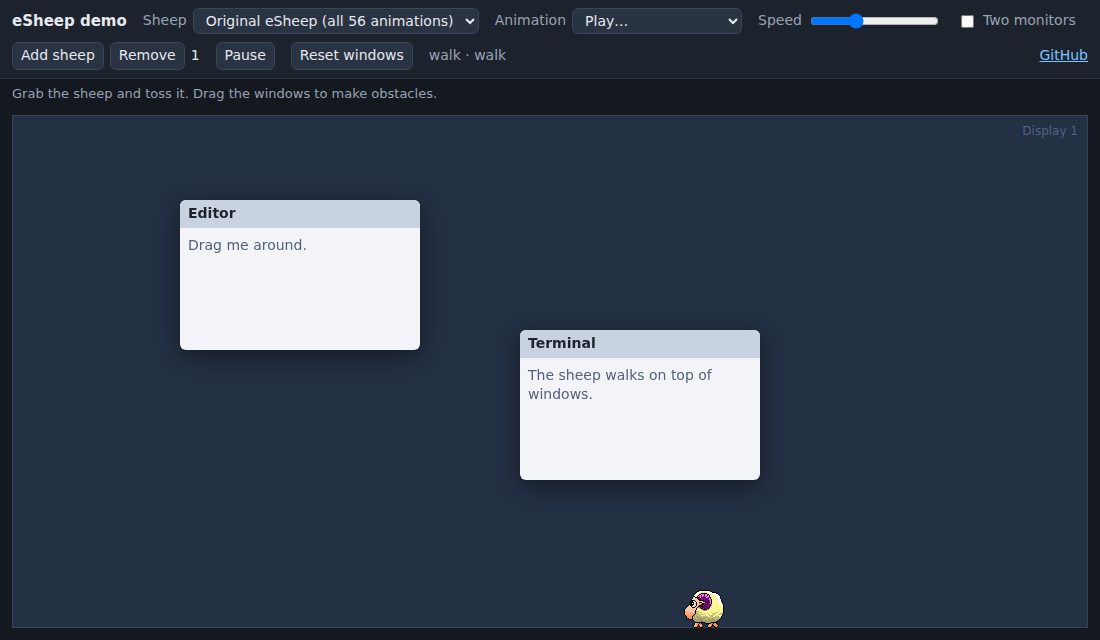
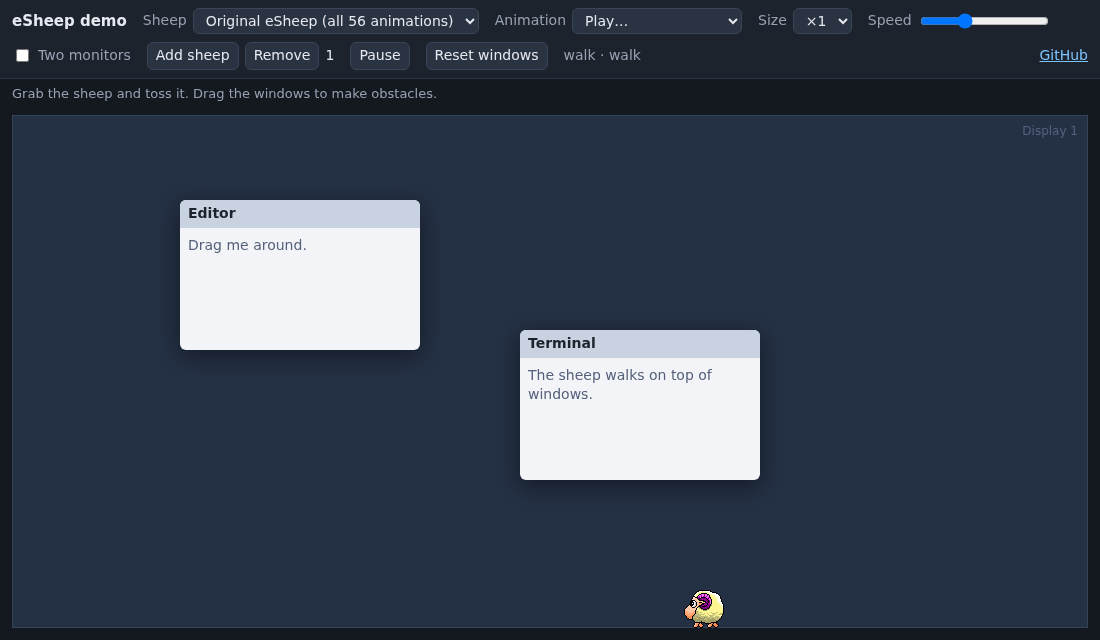
feat: high-resolution rendering and a Size setting

diff --git a/src/web/stage.ts b/src/web/stage.ts
@@ -28,7 +28,9 @@ export const WINDOW = 128;
 /** Transparent margin around a classic sprite, so tossed pixels are never clipped at the edge. */
 export const PAD = 6;
 /** Classic packs: on-screen px per source px. */
-export const SCALE = 1; // native pixels: the classic art is 40 px and looks wrong blown up
+/** Default sprite size multiplier: native pixels (the classic art is 40 px). */
+export const SCALE = 1;
+export const MAX_SCALE = 4;
 
 export interface StageOptions {
   readonly pack: Pack;
@@ -42,6 +44,10 @@ export interface StageOptions {
   /** Move the host window / element so the canvas origin is at (x, y) in screen px. */
   readonly place: (x: number, y: number) => void;
   readonly onSound?: () => void;
+  /** Classic sprites are drawn this many times their native size (whole numbers look crispest). */
+  readonly scale?: number;
+  /** Device pixels per CSS pixel: the canvas is rendered at this resolution so it stays crisp. */
+  readonly pixelRatio?: number;
   /** Sprite rectangles of the other sheep, so this one can leap over them. */
   readonly getOthers?: () => readonly Rect[];
 }
@@ -55,6 +61,8 @@ export interface Snapshot {
 }
 
 export interface Stage {
+  /** The display's device pixel ratio changed (e.g. the window moved to another monitor). */
+  setPixelRatio(ratio: number): void;
   /** Side of the square window the sheep draws into (sprite plus a small margin). */
   windowSize(): number;
   /** Advance by `dtMs` of (unscaled) wall time, redraw and reposition. */
@@ -96,7 +104,8 @@ const classicBrain = (o: StageOptions, pack: ClassicPack): Brain => {
   const cp: CompiledPack = compilePack(pack);
   const tw = o.sheetSize.width / pack.tilesX;
   const th = o.sheetSize.height / pack.tilesY;
-  const cfg: Config = { size: Math.round(tw * SCALE), scale: SCALE };
+  const scale = Math.min(MAX_SCALE, Math.max(1, o.scale ?? SCALE));
+  const cfg: Config = { size: Math.round(tw * scale), scale };
   const pad = PAD;
   const win = cfg.size + 2 * PAD;
   const first = spawn(cp, o.getWorld(), cfg, o.seed);
@@ -202,14 +211,22 @@ export const createStage = (o: StageOptions): Stage => {
     const p = brain.pos();
     o.place(Math.round(p.x - brain.pad), Math.round(p.y - brain.pad));
   };
-  // Size the canvas to the sheep (resizing resets the context, so smoothing is switched off after).
+  // The canvas is rendered at device resolution (CSS size stays the window size) so pixel art is
+  // crisp on high-DPI displays; everything is drawn in CSS px under a scale transform.
   const canvas = o.ctx.canvas as HTMLCanvasElement | undefined;
-  if (canvas) {
-    canvas.width = brain.win;
-    canvas.height = brain.win;
+  let ratio = Math.max(1, o.pixelRatio ?? 1);
+  const sizeCanvas = (): void => {
+    if (!canvas) return;
+    canvas.width = Math.round(brain.win * ratio); // resizing resets the context, hence the redraw
+    canvas.height = Math.round(brain.win * ratio);
     o.ctx.imageSmoothingEnabled = false;
-  }
-  brain.draw(o.ctx);
+  };
+  const paint = (): void => {
+    o.ctx.setTransform?.(ratio, 0, 0, ratio, 0, 0);
+    brain.draw(o.ctx);
+  };
+  sizeCanvas();
+  paint();
   place();
 
   return {
@@ -217,10 +234,18 @@ export const createStage = (o: StageOptions): Stage => {
     tick: (dtMs) => {
       if (paused) return;
       if (brain.step(dtMs, o.getWorld(), o.getPrefs())) o.onSound?.();
-      brain.draw(o.ctx);
+      paint();
       place();
     },
-    hit: (x, y) => o.ctx.getImageData(Math.floor(x), Math.floor(y), 1, 1).data[3] > 16,
+    hit: (x, y) =>
+      o.ctx.getImageData(Math.floor(x * ratio), Math.floor(y * ratio), 1, 1).data[3] > 16,
+    setPixelRatio: (r) => {
+      const next = Math.max(1, r);
+      if (next === ratio) return;
+      ratio = next;
+      sizeCanvas();
+      paint();
+    },
     down: (pointer, t) => {
       if (paused) return;
       drag = startDrag(brain.pos(), pointer, t);
@@ -231,7 +256,7 @@ export const createStage = (o: StageOptions): Stage => {
       const m = moveDrag(drag, pointer, t);
       drag = m.drag;
       brain.moveHeld(m.sprite);
-      brain.draw(o.ctx);
+      paint();
       place();
     },
     up: (t) => {
@@ -247,7 +272,7 @@ export const createStage = (o: StageOptions): Stage => {
     play: (name) => {
       if (!brain.play || !brain.animations?.().includes(name)) return false;
       brain.play(name, o.getWorld());
-      brain.draw(o.ctx);
+      paint();
       place();
       return true;
     },

diff --git a/src/web/stage.test.ts b/src/web/stage.test.ts
@@ -96,6 +96,43 @@ describe('classic stage', () => {
     expect(make(bounce).stage.windowSize()).toBe(128);
   });
 
+  it('draws classic sprites at the requested whole-number scale (clamped to 1-4)', () => {
+    const base = make(woolly).stage.rect()?.width ?? 0;
+    const at = (scale: number) => make(woolly, { scale }).stage;
+    expect(at(2).rect()?.width).toBe(base * 2);
+    expect(at(2).windowSize()).toBe(base * 2 + 2 * PAD);
+    expect(at(9).rect()?.width).toBe(base * 4);
+    expect(at(0).rect()?.width).toBe(base);
+  });
+
+  it('renders the canvas at device resolution and maps hit-tests to it', () => {
+    const canvas = { width: 0, height: 0 } as HTMLCanvasElement;
+    const ctx = Object.assign(fakeCtx(), { canvas }) as unknown as CanvasRenderingContext2D;
+    const { stage } = make(woolly, { ctx, pixelRatio: 2 });
+    const css = stage.windowSize();
+    expect(canvas).toMatchObject({ width: css * 2, height: css * 2 });
+    expect(ctx.setTransform).toHaveBeenLastCalledWith(2, 0, 0, 2, 0, 0);
+    stage.hit(10.5, 7);
+    expect(ctx.getImageData).toHaveBeenLastCalledWith(21, 14, 1, 1);
+  });
+
+  it('re-renders at the new resolution when the pixel ratio changes, and ignores no-ops', () => {
+    const canvas = { width: 0, height: 0 } as HTMLCanvasElement;
+    const ctx = Object.assign(fakeCtx(), { canvas }) as unknown as CanvasRenderingContext2D;
+    const { stage } = make(woolly, { ctx });
+    const css = stage.windowSize();
+    stage.setPixelRatio(3);
+    expect(canvas.width).toBe(css * 3);
+    expect(ctx.setTransform).toHaveBeenLastCalledWith(3, 0, 0, 3, 0, 0);
+    const calls = (ctx.setTransform as unknown as { mock: { calls: unknown[] } }).mock.calls.length;
+    stage.setPixelRatio(3);
+    expect((ctx.setTransform as unknown as { mock: { calls: unknown[] } }).mock.calls.length).toBe(
+      calls,
+    );
+    stage.setPixelRatio(0.5); // never below 1
+    expect(canvas.width).toBe(css);
+  });
+
   it('has no rectangle for the bounce sheep', () => {
     expect(make(bounce).stage.rect()).toBeNull();
   });

diff --git a/tests/e2e/demo.spec.ts b/tests/e2e/demo.spec.ts
@@ -286,3 +286,35 @@ test('grabbing one sheep leaves the others alone', async ({ page }) => {
   expect(Math.abs(other.x - b.x)).toBeLessThan(400);
   await page.mouse.up();
 });
+
+test('the Size picker scales the sheep and keeps the flock', async ({ page }) => {
+  await open(page);
+  await page.evaluate(() => window.__demo.add());
+  const canvas = page.locator('#sheep');
+  await expect(canvas).toHaveCSS('width', '52px'); // 40px sprite + 6px margin each side
+  await page.locator('#scale').selectOption('3');
+  await expect.poll(() => page.evaluate(() => window.__demo.count())).toBe(2);
+  await expect(canvas).toHaveCSS('width', '132px'); // 40 x 3 + 12
+  await page.evaluate(() => window.__demo.step(6000));
+  const s = await snap(page);
+  expect(s.y + 120).toBeLessThanOrEqual((await monitor(page)).bottom + 1); // 120px sprite fits on the floor
+});
+
+test('the canvas is rendered at device resolution so pixel art stays crisp', async ({
+  browser,
+}) => {
+  const context = await browser.newContext({ deviceScaleFactor: 2 });
+  const page = await context.newPage();
+  await open(page);
+  const dims = await page.locator('#sheep').evaluate((c: HTMLCanvasElement) => ({
+    backing: c.width,
+    css: c.getBoundingClientRect().width,
+  }));
+  expect(dims).toEqual({ backing: 104, css: 52 }); // 52 CSS px at 2 device px each
+  // Still hit-testable at the right place: clicking the sheep's centre picks it up.
+  await page.evaluate(() => window.__demo.step(8000));
+  const s = await snap(page);
+  await page.mouse.move(s.x + 20, s.y + 22);
+  await expect(page.locator('#sheep')).toHaveCSS('pointer-events', 'auto');
+  await context.close();
+});

diff --git a/tests/e2e/app.spec.ts b/tests/e2e/app.spec.ts
@@ -176,11 +176,33 @@ test.describe('settings', () => {
     });
 
     page.evaluate(() =>
-      window.electronAPI.savePrefs({ speed: 99, sound: false, pack: '../../etc', count: 99 }),
+      window.electronAPI.savePrefs({
+        speed: 99,
+        sound: false,
+        pack: '../../etc',
+        count: 99,
+        scale: 99,
+      }),
     );
     await expect
       .poll(() => page.evaluate(() => window.electronAPI.loadPrefs()))
-      .toMatchObject({ speed: 2, sound: false, pack: 'builtin', count: 12 });
+      .toMatchObject({ speed: 2, sound: false, pack: 'builtin', count: 12, scale: 4 });
+  });
+
+  test('the Size setting scales the sprite and its window, and persists', async () => {
+    const page = await openSettings();
+    await page.locator('#pack').selectOption('woolly');
+    await page.locator('#scale').selectOption('2');
+    await page.getByRole('button', { name: 'Save' }).click();
+    await expect(page.locator('#status')).toHaveText('Saved');
+    expect(await page.evaluate(() => window.electronAPI.loadPrefs())).toMatchObject({ scale: 2 });
+    // 40px sprite x2, plus the 6px margin on every side.
+    await expect.poll(async () => (await sheepBounds()).width, { timeout: 15_000 }).toBe(92);
+    const bottom = await page.evaluate(async () => {
+      const [primary] = await window.electronAPI.getWorkAreas();
+      return primary.y + primary.height;
+    });
+    await expect.poll(async () => (await sheepBounds()).y + 86, { timeout: 15_000 }).toBe(bottom);
   });
 
   test('switching to the woolly pack reloads the sheep, which falls in and lands on the taskbar line', async () => {

diff --git a/src/main/main.ts b/src/main/main.ts
@@ -32,7 +32,8 @@ const getVisibleWindows = createWindowSource(process.platform, process.pid, load
 );
 
 const MAX_SHEEP = 12;
-const DEFAULT_PREFS: Prefs = { speed: 1, sound: false, pack: BUILTIN, count: 1 };
+const MAX_SCALE = 4;
+const DEFAULT_PREFS: Prefs = { speed: 1, sound: false, pack: BUILTIN, count: 1, scale: 1 };
 const clamp = (n: number, lo: number, hi: number): number => Math.min(hi, Math.max(lo, n));
 
 const store = new Store<Prefs>({ defaults: DEFAULT_PREFS });
@@ -50,6 +51,7 @@ const loadPrefs = (): Prefs => ({
   sound: store.get('sound'),
   pack: store.get('pack'),
   count: store.get('count'),
+  scale: store.get('scale'),
 });
 
 const createSheepWindow = (): void => {
@@ -180,8 +182,10 @@ ipcMain.on('save-prefs', (_e, prefs: Prefs) => {
     sound: Boolean(prefs.sound),
     pack: packs.includes(prefs.pack) ? prefs.pack : BUILTIN,
     count: clamp(Math.round(Number(prefs.count)) || 1, 1, MAX_SHEEP),
+    scale: clamp(Math.round(Number(prefs.scale)) || 1, 1, MAX_SCALE),
   };
-  const packChanged = clean.pack !== store.get('pack');
+  // A new pack or size needs the sheep rebuilt, which a renderer reload does.
+  const packChanged = clean.pack !== store.get('pack') || clean.scale !== store.get('scale');
   store.set(clean);
   if (packChanged)
     for (const w of sheepWins) w.webContents.reload(); // renderers reload the new pack on start

diff --git a/src/demo/demo.ts b/src/demo/demo.ts
@@ -57,6 +57,7 @@ let focus: Sheep | null = null;
 let wanted = 1;
 let paused = false;
 const prefs = { speed: 1, sound: false };
+let scale = Math.min(4, Math.max(1, Number(params.get('scale')) || 1));
 
 const loadPack = async (
   name: string,
@@ -132,7 +133,10 @@ const refreshStatus = (): void => {
   document.body.dataset.mode = s.mode;
 };
 const tickAll = (dt: number): void => {
-  for (const s of flock) s.stage.tick(dt);
+  for (const s of flock) {
+    s.stage.setPixelRatio(window.devicePixelRatio);
+    s.stage.tick(dt);
+  }
   refreshStatus();
 };
 
@@ -166,6 +170,8 @@ const addSheep = (): void => {
     sheetSize: loaded.size,
     ctx: cx,
     seed: (seed + index * 7919) >>> 0,
+    scale,
+    pixelRatio: window.devicePixelRatio,
     getWorld: world,
     getPrefs: () => prefs,
     getOthers: () =>
@@ -272,6 +278,12 @@ $('pause').addEventListener('click', (e) => {
   paused = !paused;
   for (const s of flock) s.stage.setPaused(paused);
   (e.target as HTMLElement).textContent = paused ? 'Resume' : 'Pause';
+});
+const scaleSelect = $<HTMLSelectElement>('scale');
+scaleSelect.value = String(scale);
+scaleSelect.addEventListener('change', () => {
+  scale = Number(scaleSelect.value);
+  void start($<HTMLSelectElement>('pack').value);
 });
 $('add').addEventListener('click', () => {
   if (flock.length >= MAX_SHEEP) return;

diff --git a/src/app/settings.ts b/src/app/settings.ts
@@ -2,6 +2,7 @@ export {};
 (() => {
   const speed = document.getElementById('speed') as HTMLInputElement;
   const speedOut = document.getElementById('speedOut') as HTMLOutputElement;
+  const scale = document.getElementById('scale') as HTMLSelectElement;
   const count = document.getElementById('count') as HTMLInputElement;
   const sound = document.getElementById('sound') as HTMLInputElement;
   const pack = document.getElementById('pack') as HTMLSelectElement;
@@ -20,6 +21,7 @@ export {};
       speedOut.textContent = p.speed.toFixed(1);
       sound.checked = p.sound;
       count.value = String(p.count);
+      scale.value = String(p.scale);
     },
   );
 
@@ -30,6 +32,7 @@ export {};
       sound: sound.checked,
       pack: pack.value,
       count: Number(count.value),
+      scale: Number(scale.value),
     });
     status.textContent = 'Saved';
   });

diff --git a/src/app/renderer.ts b/src/app/renderer.ts
@@ -46,6 +46,8 @@ const run = async (): Promise<void> => {
     // Several sheep start in the same millisecond, so mix in real randomness.
     seed: crypto.getRandomValues(new Uint32Array(1))[0],
     getWorld: () => ({ areas, windows }),
+    scale: prefs.scale,
+    pixelRatio: window.devicePixelRatio,
     getPrefs: () => prefs,
     getOthers: () => others,
     place: (x, y) => api.moveWindow(x, y),
@@ -106,6 +108,7 @@ const run = async (): Promise<void> => {
 
   let last = performance.now();
   const frame = (now: number): void => {
+    created.setPixelRatio(window.devicePixelRatio); // follows the window between mixed-DPI displays
     created.tick(Math.min(now - last, 100));
     last = now;
     requestAnimationFrame(frame);

diff --git a/src/app/settings.html b/src/app/settings.html
@@ -32,6 +32,15 @@
         >Sprite pack:
         <select id="pack"></select
       ></label>
+      <label
+        >Size:
+        <select id="scale">
+          <option value="1">×1 (native)</option>
+          <option value="2">×2</option>
+          <option value="3">×3</option>
+          <option value="4">×4</option>
+        </select></label
+      >
       <label>Sheep: <input id="count" type="number" min="1" max="12" value="1" /></label>
       <label><input id="sound" type="checkbox" /> Sound on bounce</label>
       <button type="submit">Save</button>

diff --git a/src/demo/index.html b/src/demo/index.html
@@ -150,6 +150,15 @@
           <option value="">Play…</option>
         </select>
       </label>
+      <label
+        >Size
+        <select id="scale">
+          <option value="1">×1</option>
+          <option value="2">×2</option>
+          <option value="3">×3</option>
+          <option value="4">×4</option>
+        </select>
+      </label>
       <label>Speed <input id="speed" type="range" min="0.5" max="2" step="0.1" value="1" /></label>
       <label><input id="dual" type="checkbox" /> Two monitors</label>
       <span class="group"

diff --git a/src/types/global.d.ts b/src/types/global.d.ts
@@ -5,6 +5,7 @@ interface Prefs {
   sound: boolean;
   pack: string; // 'builtin' or a folder name under assets/packs
   count: number; // how many sheep, 1 - 12
+  scale: number; // sprite size multiplier, 1 - 4 (whole numbers are crispest)
 }
 
 interface Rect {

diff --git a/src/test/fakeCanvas.ts b/src/test/fakeCanvas.ts
@@ -9,6 +9,7 @@ export const fakeCtx = (alpha = 255) => {
     restore: vi.fn(),
     translate: vi.fn(),
     scale: vi.fn(),
+    setTransform: vi.fn(),
     drawImage: vi.fn(),
     getImageData: vi.fn(() => ({ data: [0, 0, 0, alpha] })),
   };
